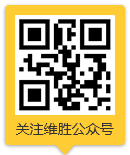
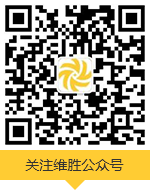
footer 微博 微信 APP

diff --git a/tzdr-web/src/main/webapp/static/css/trade.css b/tzdr-web/src/main/webapp/static/css/trade.css
@@ -696,7 +696,7 @@ ul,li,ol,i,em,p { list-style: none; font-style: normal;}
 
 /*悬浮*/
 .floatlayer { width: 1000px; height: 0; position: relative; margin: 0 auto; z-index: 20;}
-.fl_server { width: 50px; height: auto; position: fixed; right: 0px;  bottom: 10%; margin-top: -50px; z-index: 50; }
+.fl_server { width: 50px; height: auto; position: fixed; right: 0px;  bottom: 15%; margin-top: -50px; z-index: 50; }
 .fl_server_top {position: fixed;right: 0px;top: 10%;z-index: 50;}
 .fl_server_top a {display: block; width: 50px;height: 50px;background: url(../images/common-new/bottom-bottom.png) no-repeat;}
 .fl_server_top a:hover {background: url(../images/common-new/bottom-bottom-on.png) no-repeat;}
@@ -705,11 +705,11 @@ ul,li,ol,i,em,p { list-style: none; font-style: normal;}
 .fl_sv_tent a:hover { background: url(../images/common-new/fix_02.png) no-repeat;}
 .fl_sv_up a { display: block; width: 50px; height: 50px; background: url(../images/common-new/bottom-top.png) no-repeat;}
 .fl_sv_up a:hover { background: url(../images/common-new/bottom-top-on.png) no-repeat;}
-.fl_sv_code a { display: block; width: 40px; height: 40px; background: url(../images/common-new/fix_03.png) no-repeat;}
-.fl_sv_code a:hover {  background: url(../images/common-new/fix_04.png) no-repeat; }
+.fl_sv_code a { display: block; width: 50px; height: 50px; background: url(../images/common-new/appxiazai.png) no-repeat;}
+.fl_sv_code a:hover {  background: url(../images/common-new/appxiazai-on.png) no-repeat; }
 .fl_sv_notic a { display: block; width: 40px; height: 40px; background: url(../images/common-new/fix_05.png) no-repeat;}
 .fl_sv_notic a:hover { background: url(../images/common-new/fix_06.png) no-repeat;}
-.fl_sv_codetk { background: url(../images/common-new/codebg.png) no-repeat; right: 58px; bottom: -13px;position: absolute; width: 100px; height: 147px; padding: 12px 24px 2px 14px;  }
+.fl_sv_codetk { /* background: #fc3;  */right: 50px; bottom: 33px;position: absolute; /* width: 100px; height: 147px; */ /* padding: 12px 24px 2px 14px;  */ }
 .fl_sv_codetk img { width: 100px; height: 100px; display: block;}
 .fl_sv_codetk p { width: 100px; height: 36px; line-height: 18px; font-size: 12px; color: #fff; text-align: center; padding-top: 5px;  }
 .fl_notic { width: 100%; height: auto; background: url(../images/common-new/noticbg.png) repeat; position: fixed; left: 0; bottom: 0; padding: 8px 0; min-width: 1000px;  border-top: 1px solid #b73c40;}

diff --git a/tzdr-web/src/main/webapp/static/css/new_index.css b/tzdr-web/src/main/webapp/static/css/new_index.css
@@ -208,5 +208,5 @@ ul,li,ol,i,em { font-style: normal; list-style: none;}
 .site-notice .nr {border-top: 1px solid #4d4d4d; background: #333; padding: 20px 0;}
 
 /* weixin */
-.follow .erweima .erweima-wxtk {position: absolute;top: -152px;left: -43px; height: 150px;}
+.follow .erweima .erweima-wxtk {position: absolute;top: -153px;left: -39px; height: 150px;}
 .follow .erweima .erweima-wxtk img {height: 150px;}
